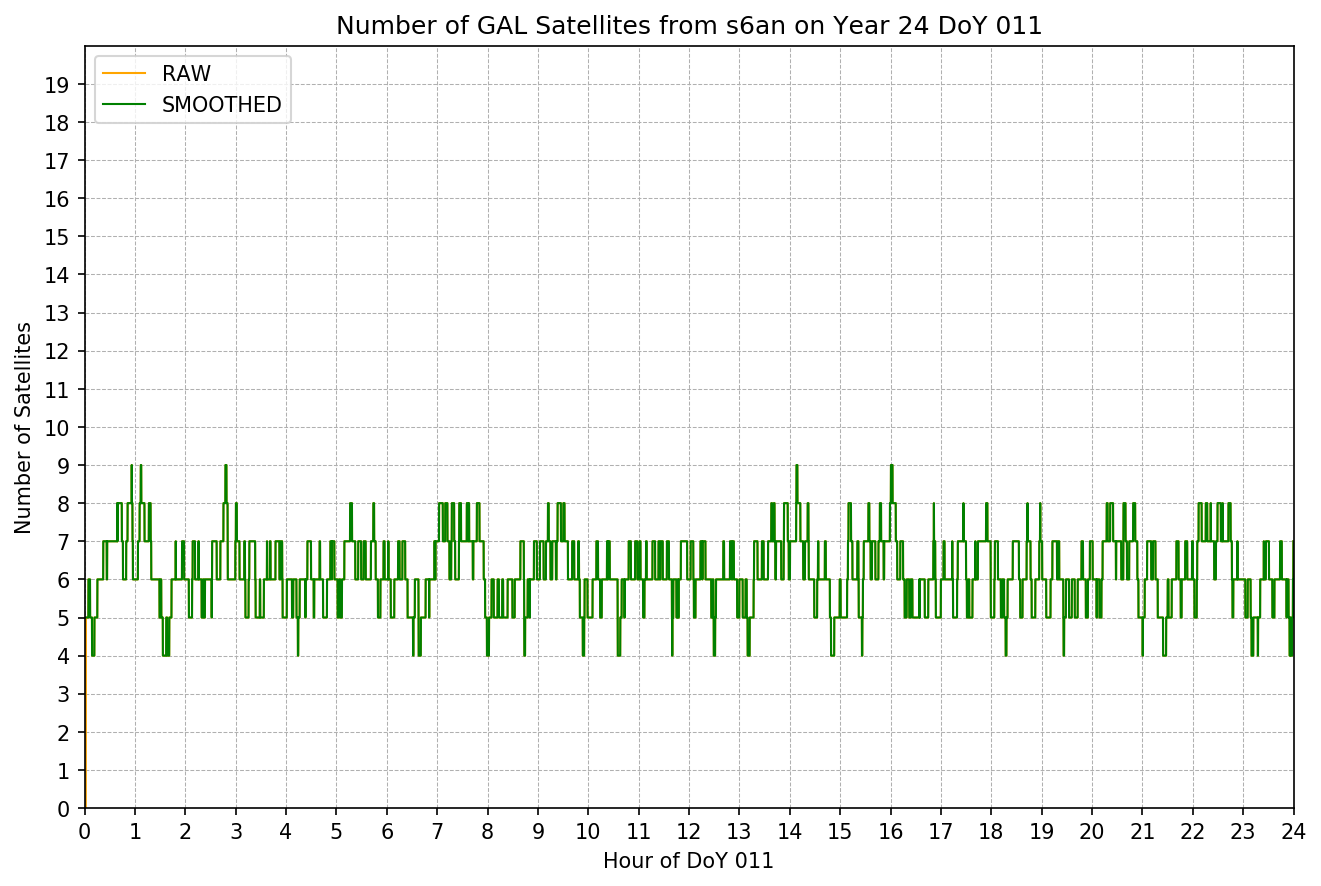
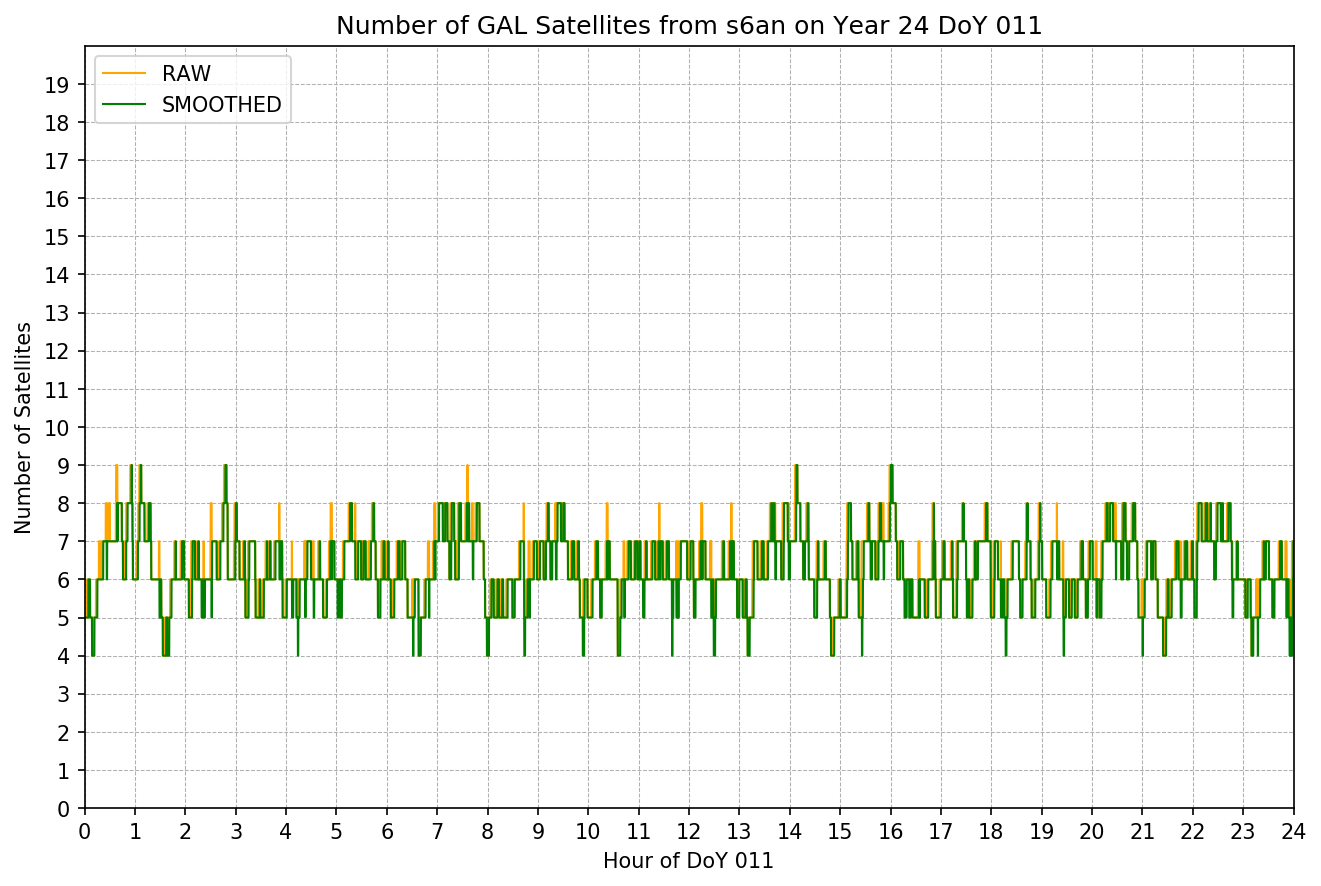
feat(PreprocessingPlots.py, fixed number of satellites plots), add(cycle slip detection to Preprocessing.py)

Changed region(s): [[0.0621, 0.5485, 0.9932, 0.7009]]

diff --git a/SRC/Preprocessing.py b/SRC/Preprocessing.py
@@ -83,6 +83,9 @@ def runPreprocessing(Conf, ObsInfo, PrevPreproObsInfo):
     CodesObs = ObsInfo[0]
     PhaseObs = ObsInfo[1]
 
+    # Initialize output
+    PreproObsInfo = OrderedDict({})
+
     # CHALLENGE:
     # if check Cycle Slips activated
     if (Conf["CYCLE_SLIPS"][FLAG] == 1):
@@ -95,30 +98,60 @@ def runPreprocessing(Conf, ObsInfo, PrevPreproObsInfo):
             # Get satellite label
             SatLabel = SatPhaseObs[ObsIdxP["PRN"]]
             
-            
             # Compute Geometry-Free in cycles
             # The geometry free is the difference between Phase1 and Phase2 measurements
-            # GF = PrevPreproObsInfo[SatLabel]["GF_L_Prev"] - 
+            GF =  float(SatPhaseObs[ObsIdxP["L1"]]) - float(SatPhaseObs[ObsIdxP["L2"]])
 
-            if PrevPreproObsInfo[SatLabel]["CycleSlipBuffIdx"] == Conf["CYCLE_SLIPS"][3]:
-                pass
-            
-            # Check Data Gaps
-            # ...
+            # Check Data Gaps 
+            # If there is a data gap we need to reset the buffers 
+            if Sod - PrevPreproObsInfo[SatLabel]["GF_Epoch_Prev"][1] < Conf["MAX_DATA_GAP"][1]:
 
-            # Cycle slips detection
-            # fit a polynomial using previous GF measurements to compare the predicted value
-            # with the observed one
-            # --------------------------------------------------------------------------------------------------------------------
-            # ...
-            
+                # Cycle slips detection
+                if PrevPreproObsInfo[SatLabel]["CycleSlipBuffIdx"] == Conf["CYCLE_SLIPS"][3]:
+                    
+                    # Fit a polynomial using previous GF measurements to compare the predicted value
+                    # with the observed one
+                    # --------------------------------------------------------------------------------------------------------------------
+                    polynom = np.polynomial.polynomial.polyfit(PrevPreproObsInfo[SatLabel]["GF_Epoch_Prev"],
+                                                            PrevPreproObsInfo[SatLabel]["GF_L_Prev"], 
+                                                            int(Conf["CYCLE_SLIPS"][CSPDEGREE]))
+                    # Predict the next value
+                    targetPred = np.polynomial.polynomial.polyval(Sod, polynom)
 
+                    # Calculate the residual between the predicted and observed
+                    residual = abs(PrevPreproObsInfo[SatLabel]["GF_L_Prev"][0] - targetPred)
+
+                    # Compute CS flag
+                    PrevPreproObsInfo[SatLabel]["CycleSlipDetectFlag"] = 1 if residual > Conf["CYCLE_SLIPS"][1] else 0
+
+                    # Shift the buffer for CS flags and store last value as a detected flag
+                    # TODO: only set the buffer to 1 after 2nd epoch of the cycle slip, to do
+                    PrevPreproObsInfo[SatLabel]["CycleSlipFlags"][1:] = PrevPreproObsInfo[SatLabel]["CycleSlipFlags"][:-1]
+                    PrevPreproObsInfo[SatLabel]["CycleSlipFlags"][0] = PrevPreproObsInfo[SatLabel]["CycleSlipDetectFlag"] 
+
+                    # If CS is full then reject the measurement
+                    if sum(PrevPreproObsInfo[SatLabel]["CycleSlipFlags"]) == Conf["CYCLE_SLIPS"][2]:
+                        PreproObsInfo = rejectMeasurement(PreproObsInfo, "CYCLE_SLIPS")
+                        
+                        # Reset PrevpreproObsInfo dict to default values
+                        PrevPreproObsInfo[SatLabel]["CycleSlipBuffIdx"] = 0
+                        PrevPreproObsInfo[SatLabel]["CycleSlipFlagIdx"] = 0
+                        PrevPreproObsInfo[SatLabel]["GF_L_Prev"] = [0.0] * int(Conf["CYCLE_SLIPS"][CSNPOINTS])
+                        PrevPreproObsInfo[SatLabel]["GF_Epoch_Prev"] = [0.0] * int(Conf["CYCLE_SLIPS"][CSNPOINTS])
+                        PrevPreproObsInfo[SatLabel]["CycleSlipFlags"] = [0.0] * int(Conf["CYCLE_SLIPS"][CSNEPOCHS])
+                        PrevPreproObsInfo[SatLabel]["CycleSlipDetectFlag"] = 0
+
+            # Shift the buffer for GF and store last value
+            PrevPreproObsInfo[SatLabel]["GF_L_Prev"][1:] = PrevPreproObsInfo[SatLabel]["GF_L_Prev"][:-1]
+            PrevPreproObsInfo[SatLabel]["GF_L_Prev"][0] = GF
+
+            # Shift the buffer for SoD and store last value
+            PrevPreproObsInfo[SatLabel]["GF_Epoch_Prev"][1:] = PrevPreproObsInfo[SatLabel]["GF_Epoch_Prev"][:-1]
+            PrevPreproObsInfo[SatLabel]["GF_Epoch_Prev"][0] = Sod
+
+            PrevPreproObsInfo[SatLabel]["CycleSlipBuffIdx"] = PrevPreproObsInfo[SatLabel]["CycleSlipBuffIdx"] + 1
         # end of for iObs, SatPhaseObs in enumerate(PhaseObs):
-
     # End of if (Conf["CYCLE_SLIPS"][FLAG] == 1)
-
-    # Initialize output
-    PreproObsInfo = OrderedDict({})
 
     # Loop over Code measurements
     for iObs, SatCodesObs in enumerate(CodesObs):

diff --git a/SRC/PreprocessingPlots.py b/SRC/PreprocessingPlots.py
@@ -26,10 +26,8 @@ sys.path.append(os.getcwd() + '/' + \
 from COMMON import GnssConstants
 import numpy as np
 from collections import OrderedDict
-from COMMON.missingPRNs import missing_prns_before
 from COMMON.Plots import generatePlot
 from COMMON.allPRNs import allprns
-from COMMON.dataDivider import dataDivider
 
 
 def initPlot(PreproObsFile, PlotConf, Title, Label):
@@ -120,15 +118,20 @@ def plotSatVisibility(PreproObsFile, PreproObsData):
 def plotNumSats(PreproObsFile, PreproObsData):
 
     # Divide data frame
-
     PreproObsDataGalileo = PreproObsData[PreproObsData[PreproIdx["PRN"]].str.startswith("E")]
-    galNumSat_smoothed = PreproObsDataGalileo[PreproObsData[PreproIdx["STATUS"]] == 1]
-
     PreproObsDataGPS = PreproObsData[PreproObsData[PreproIdx["PRN"]].str.startswith("G")]
-    gpsNumSat_smoothed = PreproObsDataGPS[PreproObsDataGPS[PreproIdx["STATUS"]] == 1]
 
-    gal_gps_smoothed = PreproObsData[PreproObsData[PreproIdx["STATUS"]] == 1]
+    # Raw data
+    # PreproObsDataGalileoRaw = PreproObsDataGalileo[PreproObsData[PreproIdx["STATUS"]] == 0]
+    # PreproObsDataGPSRaw = PreproObsDataGPS[PreproObsDataGPS[PreproIdx["STATUS"]] == 0]
+    # PreproObsDataRaw = PreproObsData[PreproObsData[PreproIdx["STATUS"]] == 0]
 
+    # Smoothed data
+    PreproObsDataGalileoSmoothed = PreproObsDataGalileo[PreproObsData[PreproIdx["STATUS"]] == 1]
+    PreproObsDataGPSSmoothed = PreproObsDataGPS[PreproObsDataGPS[PreproIdx["STATUS"]] == 1]
+    PreproObsDataSmoothed = PreproObsData[PreproObsData[PreproIdx["STATUS"]] == 1]
+
+    # Set Conf Dicts
     PlotConfGalileo = {
         "Type": "Lines",
         "FigSize" : (10.4, 6.6),
@@ -154,12 +157,12 @@ def plotNumSats(PreproObsFile, PreproObsData):
         
         "xData": {
             0: unique(PreproObsDataGalileo[PreproIdx["SOD"]]) / GnssConstants.S_IN_H,
-            1: unique(galNumSat_smoothed[PreproIdx["SOD"]]) / GnssConstants.S_IN_H
+            1: unique(PreproObsDataGalileoSmoothed[PreproIdx["SOD"]]) / GnssConstants.S_IN_H
         },
 
         "yData": {
-            0: PreproObsDataGalileo.groupby(PreproIdx["SOD"])[PreproIdx["STATUS"]].sum(),
-            1: galNumSat_smoothed.groupby(PreproIdx["SOD"])[PreproIdx["STATUS"]].sum()
+            0: PreproObsDataGalileo.groupby(PreproIdx["SOD"])[PreproIdx["STATUS"]].count(),
+            1: PreproObsDataGalileoSmoothed.groupby(PreproIdx["SOD"])[PreproIdx["STATUS"]].count()
         },
 
         "Path": sys.argv[1] + '/OUT/PPVE/SAT/' + 'NUMBER_OF_GAL_SATELLITES_s6an_D011Y24.png',
@@ -190,12 +193,12 @@ def plotNumSats(PreproObsFile, PreproObsData):
         
         "xData": {
             0: unique(PreproObsDataGPS[PreproIdx["SOD"]]) / GnssConstants.S_IN_H,
-            1: unique(gpsNumSat_smoothed[PreproIdx["SOD"]]) / GnssConstants.S_IN_H
+            1: unique(PreproObsDataGPSSmoothed[PreproIdx["SOD"]]) / GnssConstants.S_IN_H
         },
 
         "yData": {
-            0: PreproObsDataGPS.groupby(PreproIdx["SOD"])[PreproIdx["STATUS"]].sum(),
-            1: gpsNumSat_smoothed.groupby(PreproIdx["SOD"])[PreproIdx["STATUS"]].sum()
+            0: PreproObsDataGPS.groupby(PreproIdx["SOD"])[PreproIdx["STATUS"]].count(),
+            1: PreproObsDataGPSSmoothed.groupby(PreproIdx["SOD"])[PreproIdx["STATUS"]].count()
         },
 
         "Path": sys.argv[1] + '/OUT/PPVE/SAT/' + 'NUMBER_OF_GPS_SATELLITES_s6an_D011Y24.png',
@@ -226,12 +229,12 @@ def plotNumSats(PreproObsFile, PreproObsData):
 
         "xData": {
             0: unique(PreproObsData[PreproIdx["SOD"]]) / GnssConstants.S_IN_H,
-            1: unique(gal_gps_smoothed[PreproIdx["SOD"]]) / GnssConstants.S_IN_H
+            1: unique(PreproObsDataSmoothed[PreproIdx["SOD"]]) / GnssConstants.S_IN_H
         },
 
         "yData": {
-            0: PreproObsData.groupby(PreproIdx["SOD"])[PreproIdx["STATUS"]].sum(),
-            1: gal_gps_smoothed.groupby(PreproIdx["SOD"])[PreproIdx["STATUS"]].sum()
+            0: PreproObsData.groupby(PreproIdx["SOD"])[PreproIdx["STATUS"]].count(),
+            1: PreproObsDataSmoothed.groupby(PreproIdx["SOD"])[PreproIdx["STATUS"]].count()
         },
 
         "Path": sys.argv[1] + '/OUT/PPVE/SAT/' + 'NUMBER_OF_GPS+GAL_SATELLITES_s6an_D011Y24.png',
@@ -633,8 +636,6 @@ def plotRejectionFlags(PreproObsFile, PreproObsData):
 
     for conf in all_confs:
         generatePlot(conf)
-
-    # generatePlot(PlotConfGalileo)
 
 # Plot Rates
 def plotRates(PreproObsFile, PreproObsData, PlotTitle, PlotLabel):

diff --git a/SRC/PREPRO/rejectMeasurement.py b/SRC/PREPRO/rejectMeasurement.py
@@ -42,4 +42,7 @@ def rejectMeasurement(PreproObs, Criterion):
     elif Criterion == "MAX_RANGE_RATE_STEP_F2":
         PreproObs["RejectionCause"] = 14
 
+    elif Criterion == "CYCLE_SLIPS":
+        PreproObs["RejectionCause"] = 15
+
     return PreproObs
